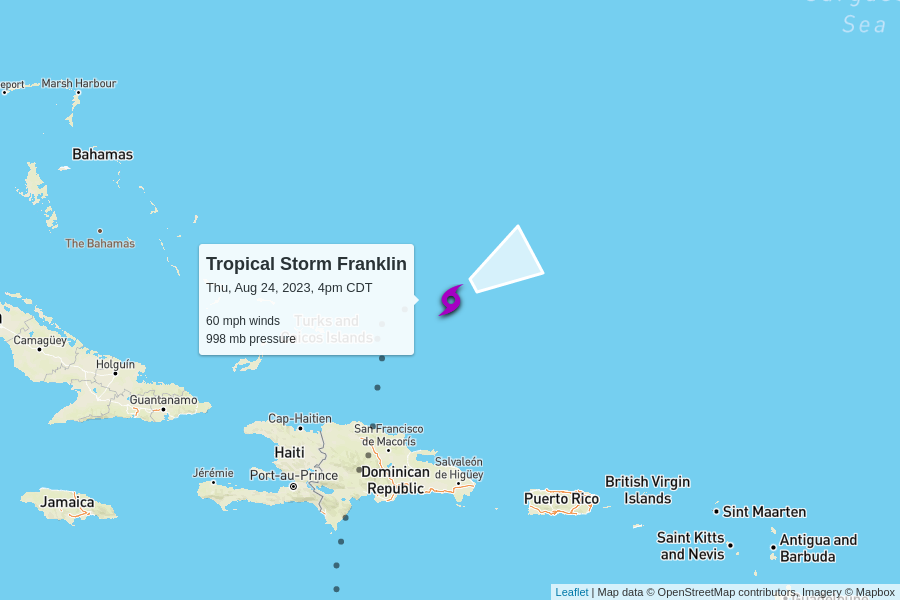
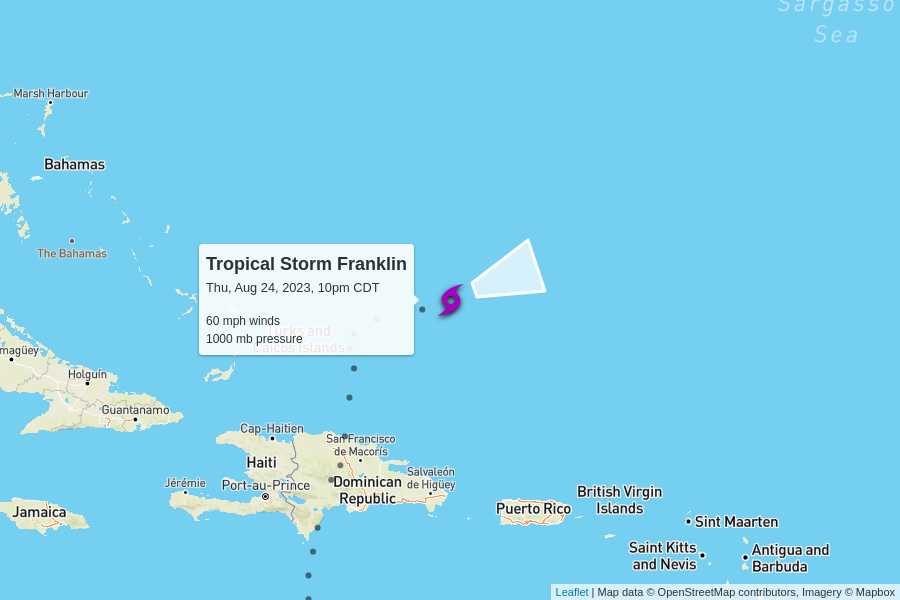
automatic update

diff --git a/docs/index.html b/docs/index.html
@@ -100,7 +100,7 @@
         <td colspan="6" class="storm category-0" >
           <h2>
             Tropical Storm Franklin
-            <p class="updated">last updated <span data-time>2023-08-24T21:00:00.000Z</span></p>
+            <p class="updated">last updated <span data-time>2023-08-25T03:00:00.000Z</span></p>
           </h2>
         </td>
       </tr>
@@ -116,11 +116,11 @@
       <tr>
         <td class="spacer"></td>
         <td>60 mph</td>
-        <td>998 mb</td>
+        <td>1000 mb</td>
         <td>
           8 mph to the east-northeast
           <br/>
-          <span style="display: inline-block; font-size: 1.5em; transform: rotate(60deg);">↑</span>
+          <span style="display: inline-block; font-size: 1.5em; transform: rotate(70deg);">↑</span>
         </td>
         <td><a href="https://raw.githubusercontent.com/mgwalker/atlantic-hurricanes/main/data/csv/AL082023.csv">AL082023.csv</a></td>
         <td><a href="https://www.nhc.noaa.gov/archive/2023/FRANKLIN.shtml?">NHC advisories</a></td>
